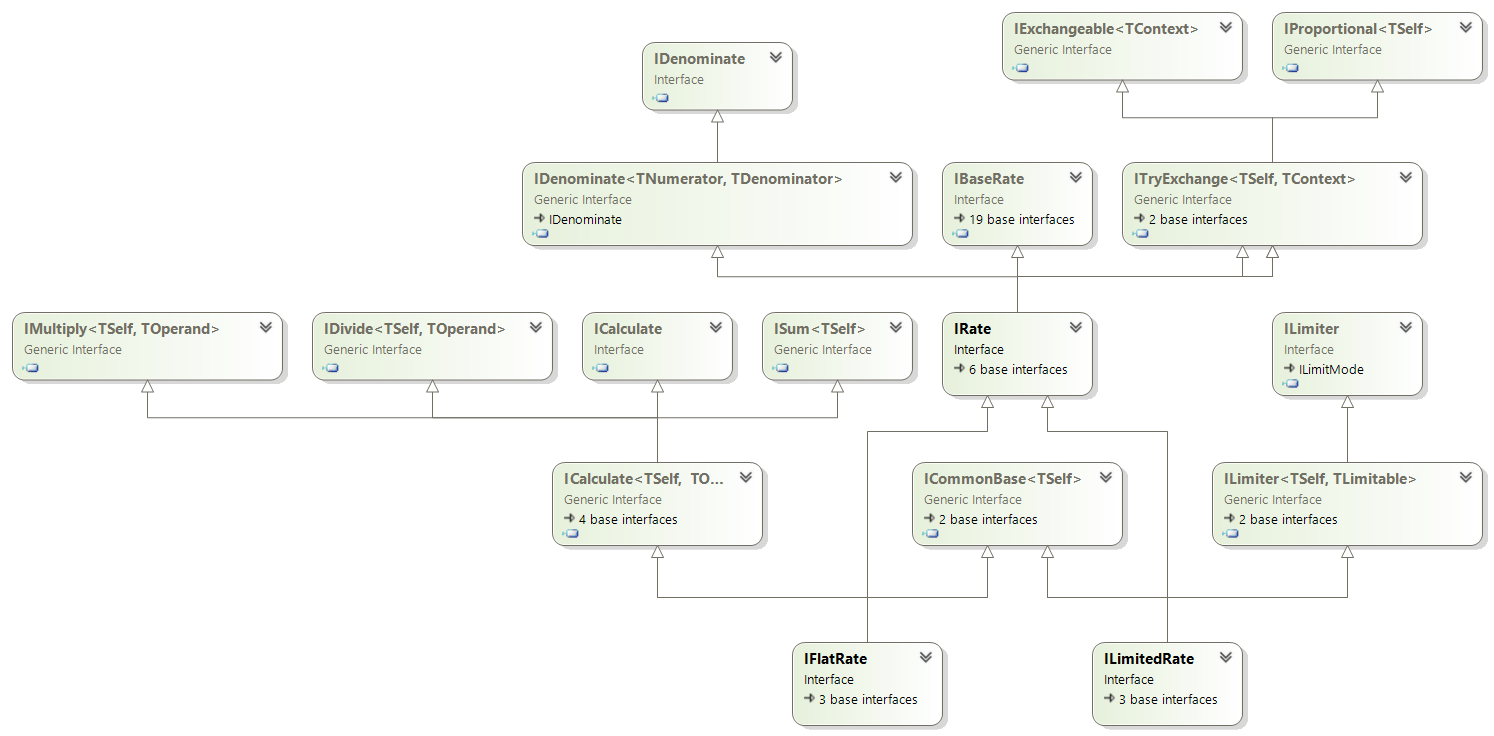
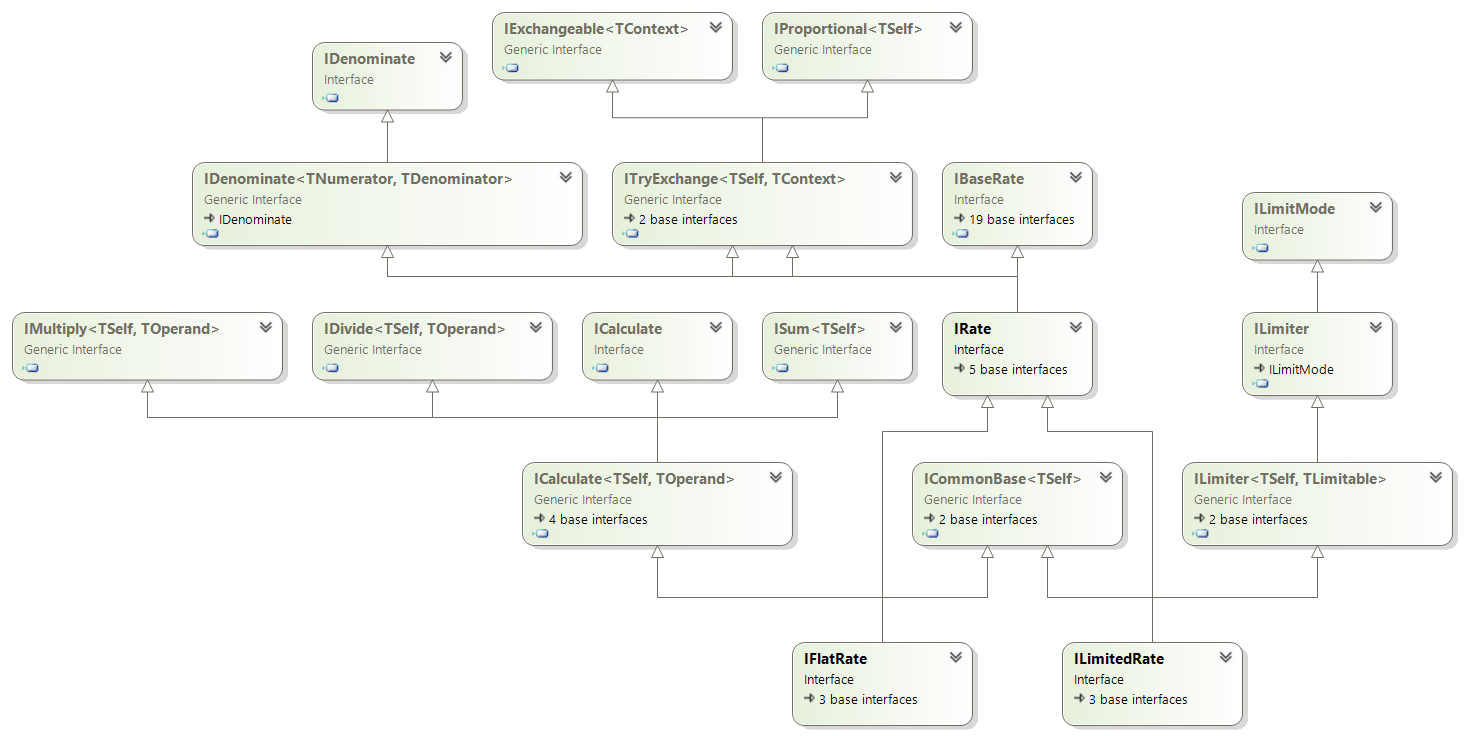
Rates corrected

diff --git a/Rates/Types/Implementations/Rate.cs b/Rates/Types/Implementations/Rate.cs
@@ -41,17 +41,17 @@ internal abstract class Rate : BaseRate, IRate
         return base.CompareTo(other);
     }
 
-    public IMeasure Denominate(IQuantifiable denominator)
+    public IMeasure Denominate(IMeasurable denominator)
     {
-        const string paramName = nameof(denominator);
-        MeasureUnitCode measureUnitCode = NullChecked(denominator, paramName).GetMeasureUnitCode();
+        ValidateDenominator(denominator, nameof(denominator));
 
-        if (!HasMeasureUnitCode(measureUnitCode))
+        decimal divisor = denominator switch
         {
-            throw InvalidMeasureUnitCodeEnumArgumentException(measureUnitCode, paramName);
-        }
+            BaseMeasurement baseMeasurement => Denominator.Measurement.ProportionalTo(baseMeasurement) * Denominator.GetDefaultQuantity(),
+            Quantifiable quantifiable => Denominator.ProportionalTo(quantifiable),
 
-        decimal divisor = Denominator.ProportionalTo(denominator);
+            _ => throw new InvalidOperationException(null),
+        };
 
         return Numerator.Divide(divisor);
     }
@@ -76,19 +76,19 @@ internal abstract class Rate : BaseRate, IRate
 
     //public IRate? ExchangeTo(IMeasurable? measurable)
     //{
-    //    if (measurable is IMeasurement measureUnit) return exchangeToMeasurement(measureUnit);
+    //    if (measurable is IMeasurement context) return exchangeToMeasurement(context);
 
     //    if (measurable is IBaseMeasure baseMeasure) return exchangeToBaseMeasure(baseMeasure);
 
     //    return null;
 
     //    #region Local methods
-    //    IRate? exchangeToMeasurement(IMeasurement? measureUnit)
+    //    IRate? exchangeToMeasurement(IMeasurement? context)
     //    {
-    //        if (IsExchangeableTo(measureUnit)) return null;
+    //        if (IsExchangeableTo(context)) return null;
 
-    //        IDenominator denominator = Denominator.GetDenominator(measureUnit);
-    //        decimal proportionQuantity = denominator.Measurement.ProportionalTo(measureUnit);
+    //        IDenominator denominator = Denominator.GetDenominator(context);
+    //        decimal proportionQuantity = denominator.Measurement.ProportionalTo(context);
 
     //        return exchange(denominator, proportionQuantity);
     //    }
@@ -134,20 +134,11 @@ internal abstract class Rate : BaseRate, IRate
 
     public bool IsExchangeableTo(Enum? context)
     {
-        return Denominator.IsExchangeableTo(context);
-    }
+        if (context == null) return false;
 
-    public bool IsExchangeableTo(IMeasurable? measurable)
-    {
-        return measurable switch
-        {
-            BaseRate baseRate => base.IsExchangeableTo(baseRate),
-
-            BaseMeasure or
-            BaseMeasurement => measurable!.HasMeasureUnitCode(GetMeasureUnitCode()),
-
-           _ => false,
-        };
+        return Denominator.IsExchangeableTo(context)
+            || Numerator.IsExchangeableTo(context)
+            || GetLimit()?.IsExchangeableTo(context) == true;
     }
 
     public decimal ProportionalTo(IRate? other)
@@ -155,30 +146,31 @@ internal abstract class Rate : BaseRate, IRate
         return base.ProportionalTo(other);
     }
 
-    public bool TryExchangeTo(Enum? measureUnit, [NotNullWhen(true)] out IRate? exchanged)
+    public bool TryExchangeTo(Enum? context, [NotNullWhen(true)] out IRate? exchanged)
     {
         exchanged = null;
 
-        if (!IsExchangeableTo(measureUnit)) return false;
+        if (!IsExchangeableTo(context)) return false;
 
-        IDenominator denominator = Denominator.GetDenominator(measureUnit!);
-        decimal proportionQuantity = denominator.GetExchangeRate() / GetExchangeRate(measureUnit, nameof(measureUnit));
+        MeasureUnitElements measureUnitElements = GetMeasureUnitElements(context, nameof(context));
 
-        exchanged = DivideRate(denominator, proportionQuantity);
+        foreach (var item in GetRateComponentCodes())
+        {
+            IBaseMeasure? rateComponent = GetRateComponent(item);
 
-        return exchanged != null;
-    }
+            if (rateComponent?.GetMeasureUnitCode() == measureUnitElements.MeasureUnitCode
+                && rateComponent!.TryExchangeTo(measureUnitElements.MeasureUnit, out IQuantifiable? exchangedRateComponent))
+            {
+                exchanged = item switch
+                {
+                    RateComponentCode.Denominator => GetRate(Numerator, (IDenominator)exchangedRateComponent!, GetLimit()!),
+                    RateComponentCode.Numerator => GetRate((IMeasure)exchangedRateComponent!, Denominator, GetLimit()!),
+                    RateComponentCode.Limit => GetRate(Numerator, Denominator, (ILimit)exchangedRateComponent!),
 
-    public bool TryExchangeTo(IMeasurement? measurement, [NotNullWhen(true)] out IRate? exchanged)
-    {
-        exchanged = null;
-
-        if (!IsExchangeableTo(measurement)) return false;
-
-        IDenominator denominator = Denominator.GetDenominator(measurement!);
-        decimal proportionQuantity = denominator.Measurement.ProportionalTo(measurement);
-
-        exchanged = DivideRate(denominator, proportionQuantity);
+                    _ => null,
+                };
+            }
+        }
 
         return exchanged != null;
     }
@@ -192,16 +184,26 @@ internal abstract class Rate : BaseRate, IRate
         IDenominator denominator = Denominator.GetBaseMeasure(baseMeasure!);
         decimal proportionQuantity = denominator.ProportionalTo(baseMeasure);
 
-        exchanged = DivideRate(denominator, proportionQuantity);
+        IMeasure numerator = Numerator.Divide(proportionQuantity);
+        ILimit? limit = GetLimit();
+
+        exchanged = GetRate(numerator, denominator, limit!);
 
         return exchanged != null;
     }
 
-    public void ValidateDenominator(IQuantifiable denominator)
+    public void ValidateDenominator(IMeasurable denominator, string paramName)
     {
-        if (GetBaseMeasure(RateComponentCode.Denominator).Equals(denominator)) return;
+        MeasureUnitCode measureUnitCode = NullChecked(denominator, paramName).GetMeasureUnitCode();
 
-        throw new ArgumentOutOfRangeException(nameof(denominator), denominator, null);
+        if (!HasMeasureUnitCode(measureUnitCode))
+        {
+            throw InvalidMeasureUnitCodeEnumArgumentException(measureUnitCode, paramName);
+        }
+
+        if (denominator is IQuantifiable or IBaseMeasurement) return;
+
+        ArgumentTypeOutOfRangeException(paramName, denominator);
     }
 
     #region Override methods
@@ -257,17 +259,5 @@ internal abstract class Rate : BaseRate, IRate
         return baseMeasure?.IsExchangeableTo(GetMeasureUnitCode()) != true;
     }
     #endregion
-    #endregion
-
-    #region Private methods
-    private IRate? DivideRate(IDenominator denominator, decimal proportionQuantity)
-    {
-        IMeasure numerator = Numerator.Divide(proportionQuantity);
-        ILimit? limit = GetLimit();
-
-        return limit == null ?
-            GetRate(numerator, denominator)
-            : GetRate(numerator, denominator, limit);
-    }
     #endregion
 }

diff --git a/Rates/GlobalUsings.cs b/Rates/GlobalUsings.cs
@@ -1,6 +1,6 @@
-global using CsabaDu.FooVaria.BaseTypes.BaseMeasurements.Types.Implementations;
+global using CsabaDu.FooVaria.BaseTypes.BaseMeasurements.Types;
+global using CsabaDu.FooVaria.BaseTypes.BaseMeasurements.Types.Implementations;
 global using CsabaDu.FooVaria.BaseTypes.BaseMeasures.Types;
-global using CsabaDu.FooVaria.BaseTypes.BaseMeasures.Types.Implementations;
 global using CsabaDu.FooVaria.BaseTypes.BaseQuantifiables.Behaviors;
 global using CsabaDu.FooVaria.BaseTypes.BaseQuantifiables.Enums;
 global using CsabaDu.FooVaria.BaseTypes.BaseQuantifiables.Types;
@@ -13,6 +13,7 @@ global using CsabaDu.FooVaria.BaseTypes.Common.Types;
 global using CsabaDu.FooVaria.BaseTypes.Measurables.Enums;
 global using CsabaDu.FooVaria.BaseTypes.Measurables.Types;
 global using CsabaDu.FooVaria.BaseTypes.Quantifiables.Types;
+global using CsabaDu.FooVaria.BaseTypes.Quantifiables.Types.Implementations;
 global using CsabaDu.FooVaria.Measurements.Types;
 global using CsabaDu.FooVaria.Measures.Types;
 global using CsabaDu.FooVaria.RateComponents.Factories;
@@ -25,4 +26,3 @@ global using static CsabaDu.FooVaria.BaseTypes.BaseQuantifiables.Statics.Excepti
 global using static CsabaDu.FooVaria.BaseTypes.Common.Statics.ExceptionMethods;
 global using static CsabaDu.FooVaria.BaseTypes.Measurables.Statics.ExceptionMethods;
 global using static CsabaDu.FooVaria.BaseTypes.Measurables.Types.Implementations.Measurable;
-global using static CsabaDu.FooVaria.BaseTypes.BaseMeasurements.Types.Implementations.BaseMeasurement;

diff --git a/SimpleRates/Types/Implementations/SimpleRate.cs b/SimpleRates/Types/Implementations/SimpleRate.cs
@@ -77,9 +77,9 @@ public abstract class SimpleRate : BaseRate, ISimpleRate
         return DefaultQuantity / numeratorExchangeRate * denominatorExchangeRate;
     }
 
-    public void ValidateDenominator(Enum denominator)
+    public void ValidateDenominator(Enum denominator, string paramName)
     {
-        _ = GetValidMeasurementElements(denominator, RateComponentCode.Denominator, nameof(denominator));
+        _ = GetValidMeasurementElements(denominator, RateComponentCode.Denominator, paramName);
     }
 
     #region Override methods

diff --git a/_Tests/UnitTests/_BaseTypes/QuantifiablesTests/TestClasses/QuantifiableTests.cs b/_Tests/UnitTests/_BaseTypes/QuantifiablesTests/TestClasses/QuantifiableTests.cs
@@ -315,7 +315,12 @@ public sealed class QuantifiableTests
     #endregion
 
 
-    // IQuantifiable IQuantifiable.GetQuantifiable(MeasureUnitCode measureUnitCode, decimal defaultQuantity)
+    #region IQuantifiable GetQuantifiable
+    #region IQuantifiable.GetQuantifiable(MeasureUnitCode, decimal)
+
+    #endregion
+    #endregion
+
     // object IRound<IQuantifiable>.GetQuantity(RoundingMode roundingMode)
     // object IQuantity.GetQuantity(TypeCode quantityTypeCode)
     // bool IExchangeable<Enum>.IsExchangeableTo(Enum? context)

diff --git a/Rates/Factories/Implementations/FlatRateFactory.cs b/Rates/Factories/Implementations/FlatRateFactory.cs
@@ -56,7 +56,7 @@ public sealed class FlatRateFactory(IDenominatorFactory denominatorFactory) : Ra
         const string paramName = nameof(rateComponents);
         int count = rateComponents?.Length ?? 0;
 
-        if (count != 2) throw QuantityArgumentOutOfRangeException(paramName, count);
+        if (count < 2 || count > 3) throw QuantityArgumentOutOfRangeException(paramName, count);
 
         IMeasure numerator = GetValidNumerator(rateComponents![0], paramName);
         IBaseMeasure baseMeasure = rateComponents[1];

diff --git a/Rates/Types/IRate.cs b/Rates/Types/IRate.cs
@@ -1,7 +1,7 @@
 
 namespace CsabaDu.FooVaria.Rates.Types;
 
-public interface IRate : IBaseRate, ITryExchange<IRate, Enum>, ITryExchange<IRate, IMeasurement>, ITryExchange<IRate, IBaseMeasure>, IDenominate<IMeasure, IQuantifiable>, IEqualityComparer<IRate>
+public interface IRate : IBaseRate, ITryExchange<IRate, Enum>, ITryExchange<IRate, IBaseMeasure>, IDenominate<IMeasure, IMeasurable>, IEqualityComparer<IRate>
 {
     IDenominator Denominator { get; init; }
     IMeasure Numerator { get; init; }

diff --git a/_BaseTypes/BaseRates/Behaviors/IDenominate.cs b/_BaseTypes/BaseRates/Behaviors/IDenominate.cs
@@ -11,6 +11,6 @@
     {
         TNumerator Denominate(TDenominator denominator);
 
-        void ValidateDenominator(TDenominator denominator);
+        void ValidateDenominator(TDenominator denominator, string paramName);
     }
 }
